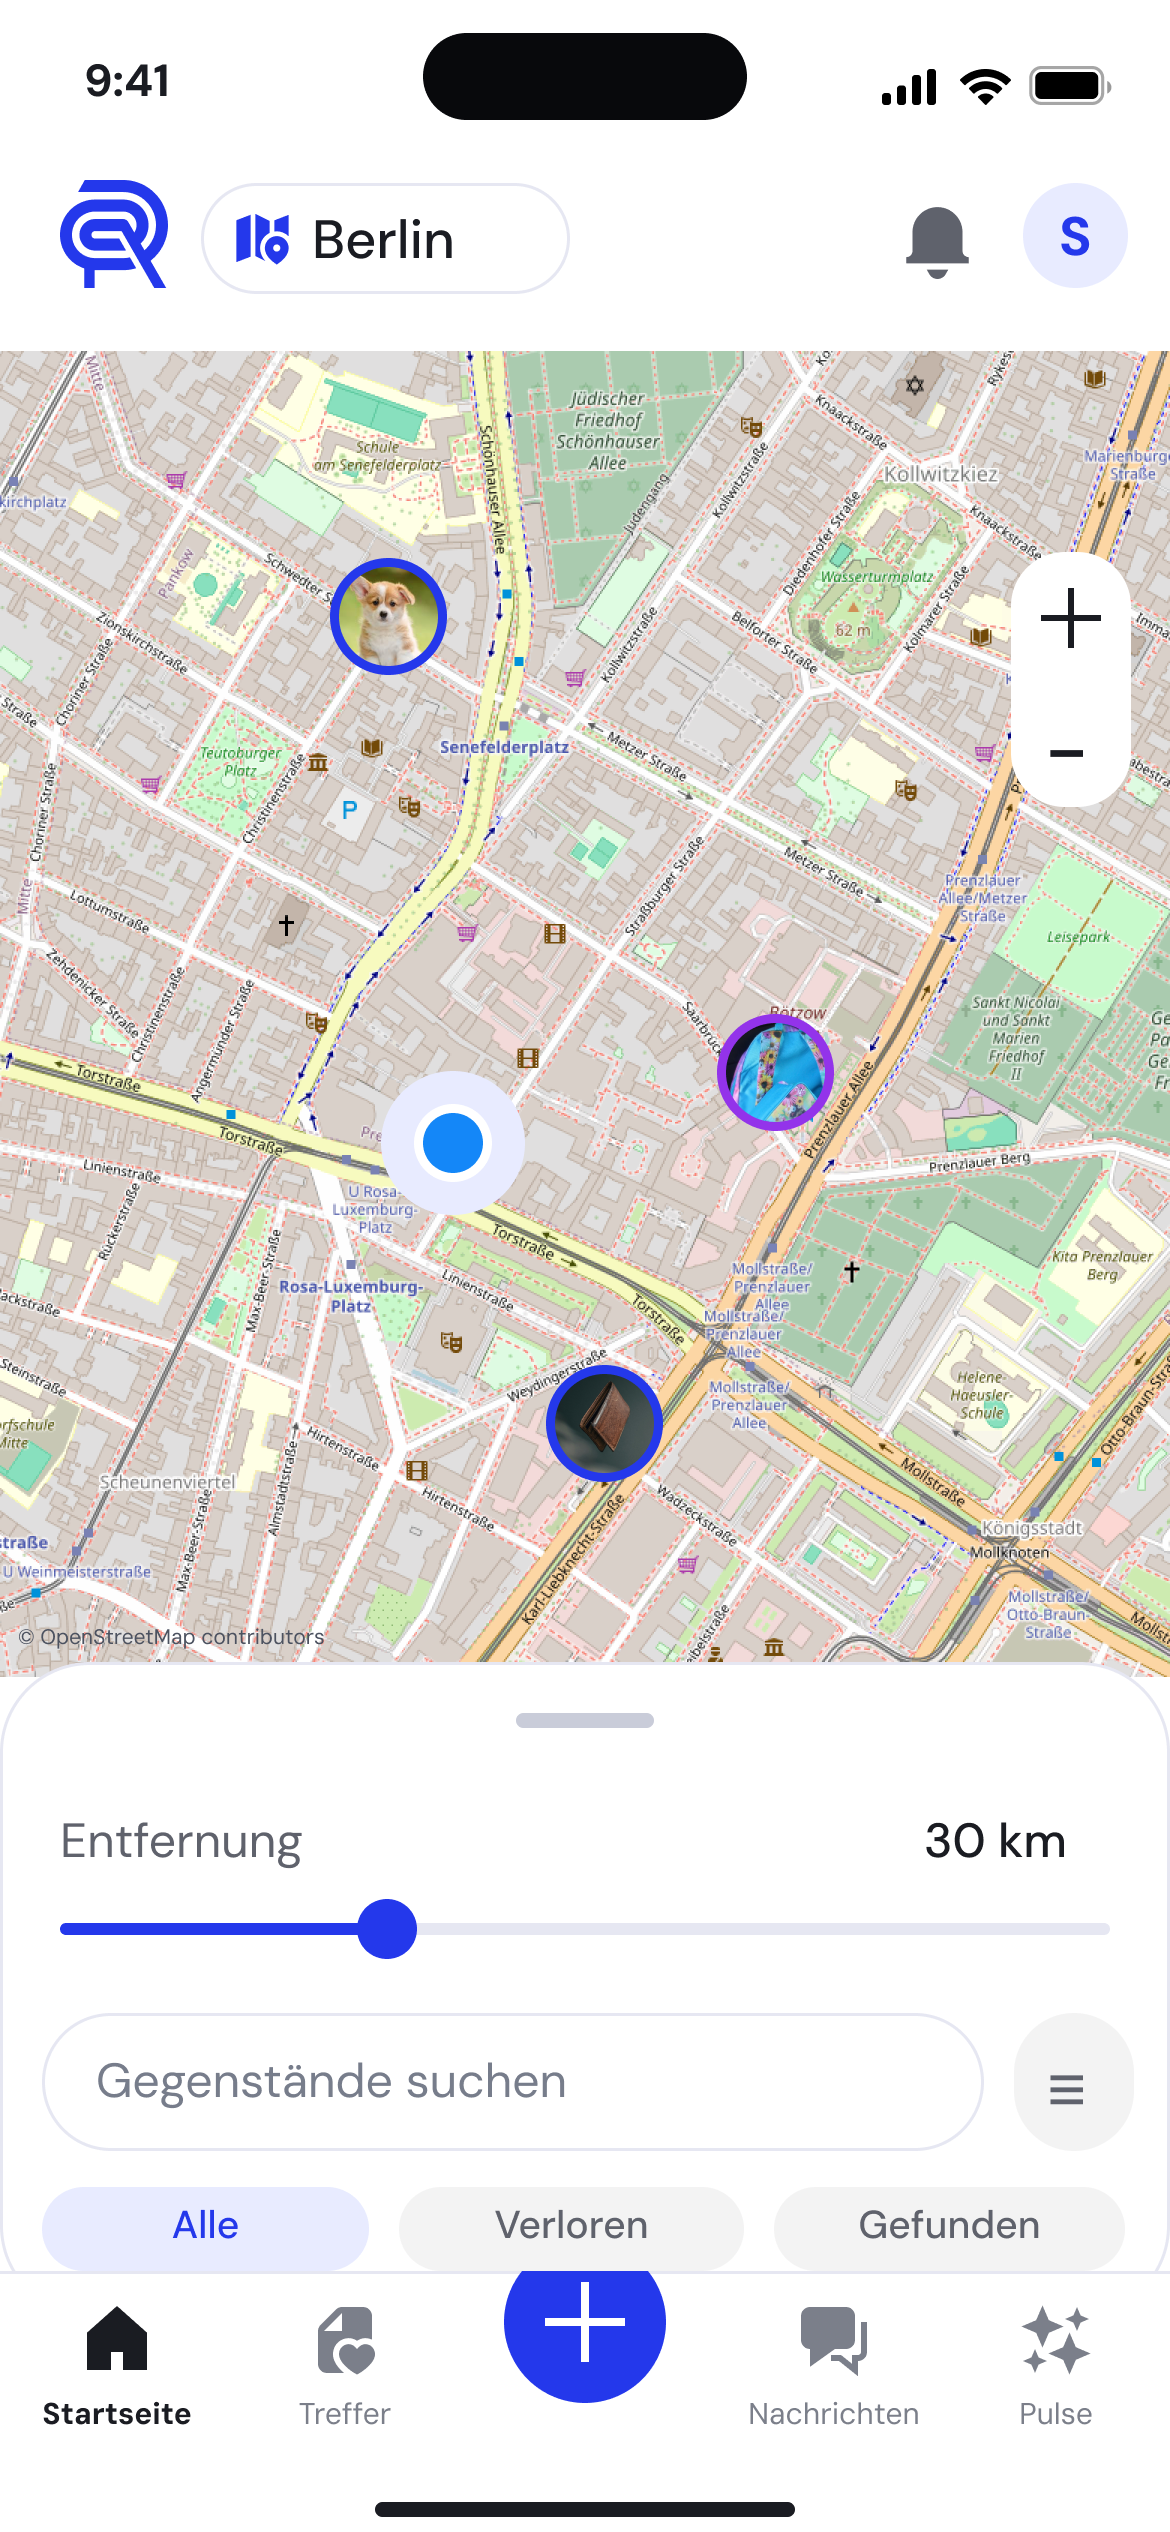
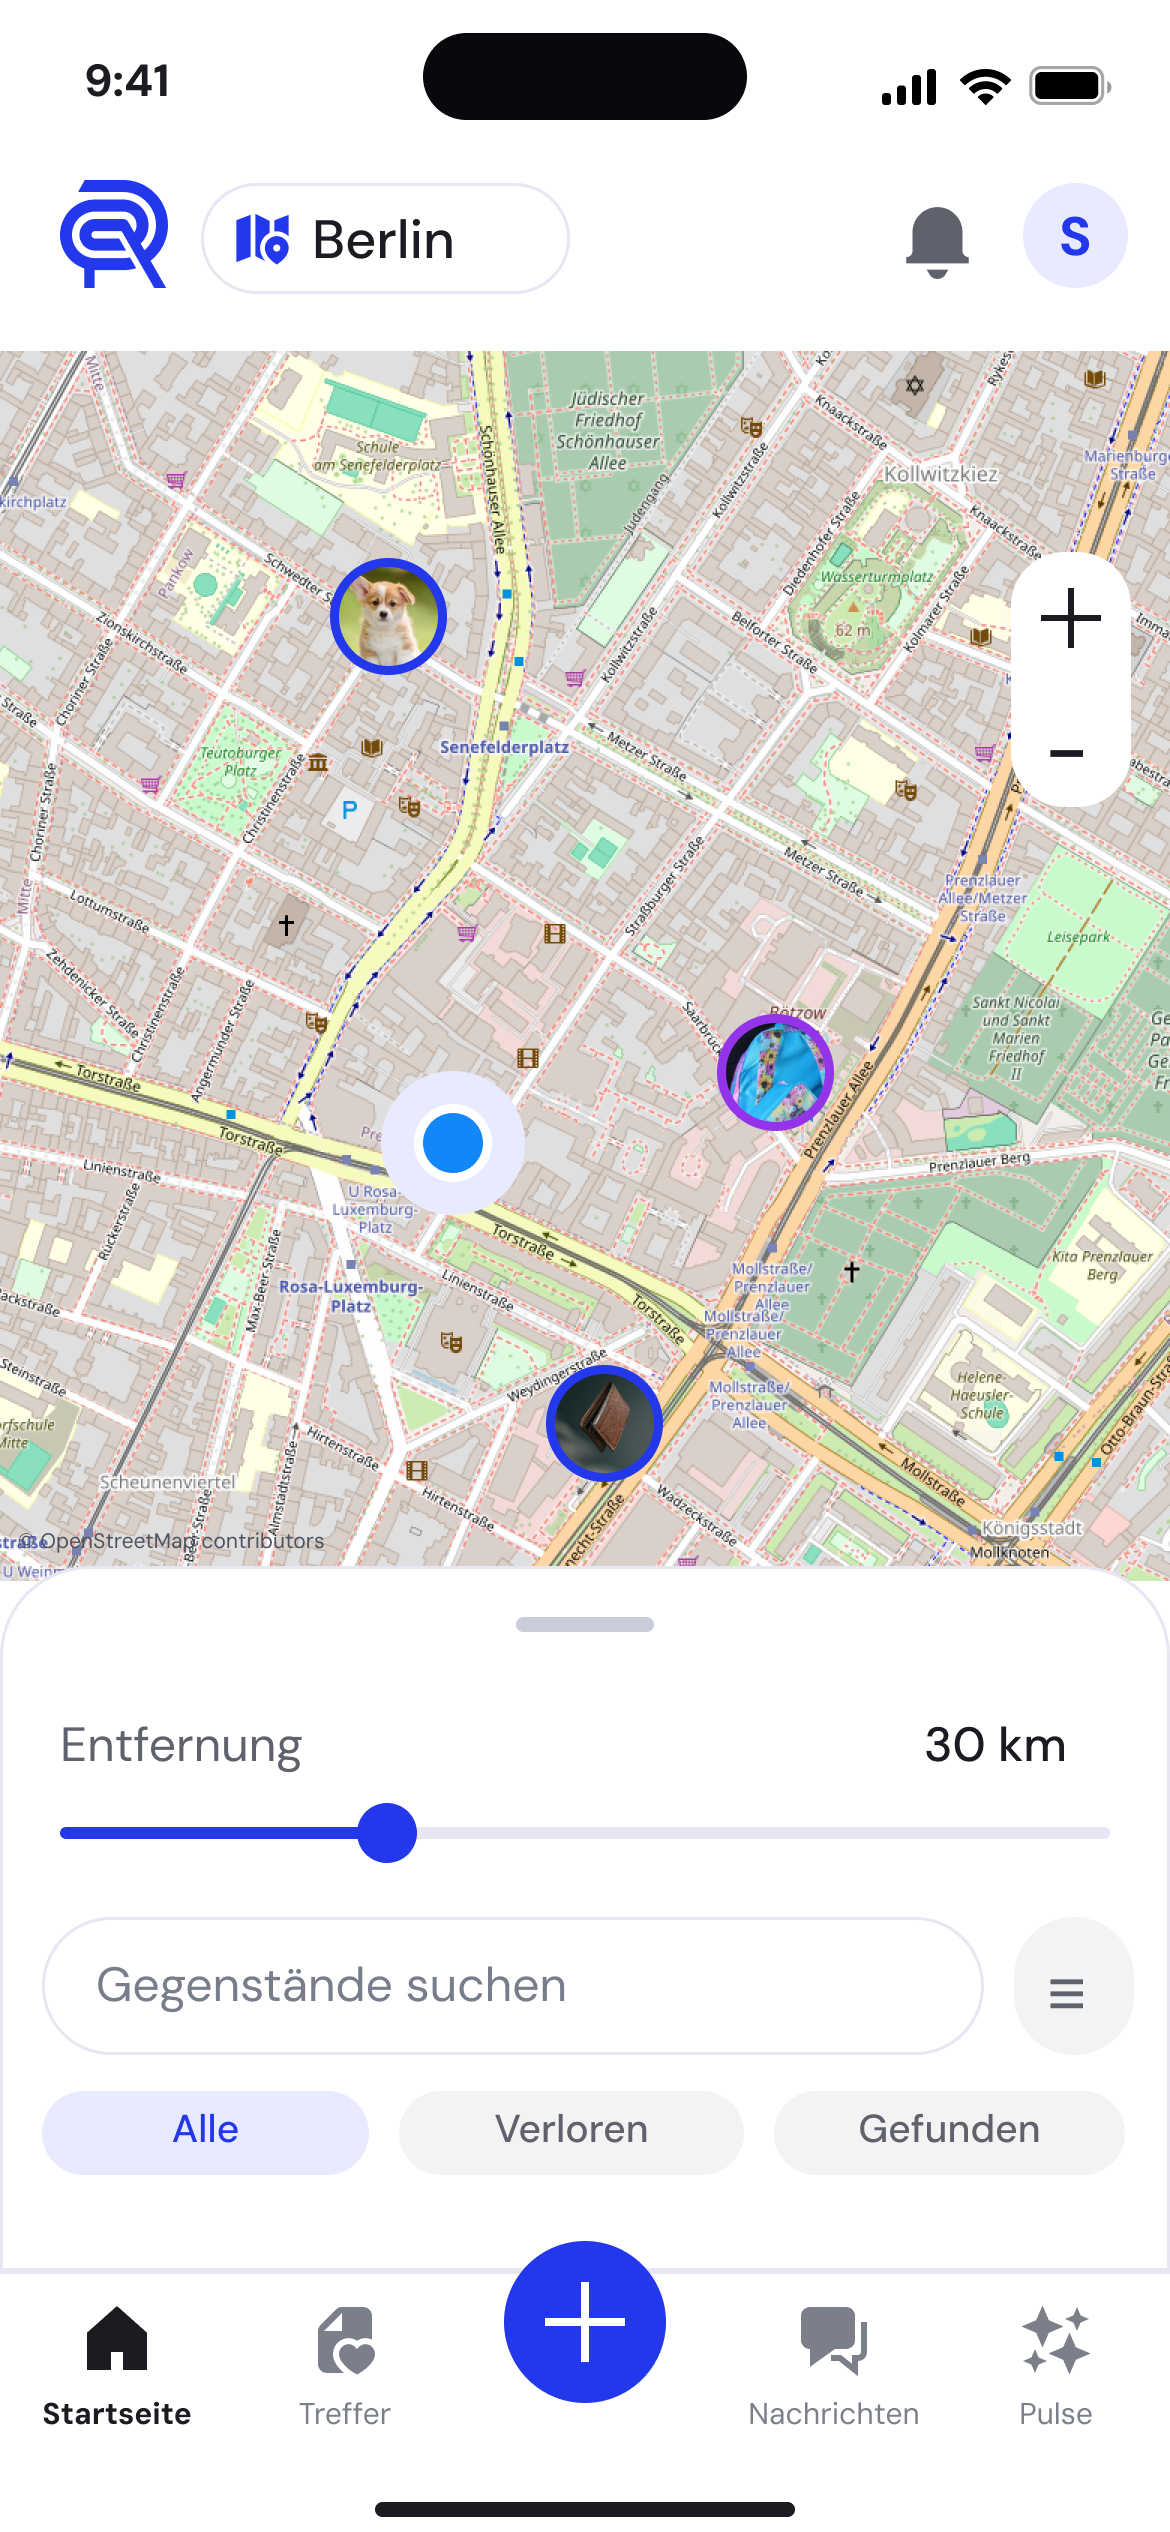
Polish discovery mockup spacing and remove duplicate map caption

diff --git a/components/shared/AppMockup.tsx b/components/shared/AppMockup.tsx
@@ -55,12 +55,6 @@ export function AppMockup({
           />
         </div>
       </div>
-      {screen === 'discover' && (
-        <figcaption className={styles.attribution}>
-          © <a href="https://www.openstreetmap.org/copyright">OpenStreetMap</a>
-          {' '}{locale === 'de' ? 'Mitwirkende' : 'contributors'}
-        </figcaption>
-      )}
     </figure>
   );
 }

diff --git a/components/shared/AppMockup.module.css b/components/shared/AppMockup.module.css
@@ -28,20 +28,6 @@
   height: auto;
 }
 
-.attribution {
-  margin-top: 14px;
-  color: inherit;
-  font-size: 10px;
-  line-height: 1.4;
-  text-align: center;
-  opacity: 0.75;
-}
-
-.attribution a {
-  text-decoration: underline;
-  text-underline-offset: 2px;
-}
-
 .showcase {
   position: relative;
   isolation: isolate;

diff --git a/public/images/app-ui/README.md b/public/images/app-ui/README.md
@@ -17,5 +17,5 @@ screen component itself, without the App Store poster, device frame, or headline
 | ownership | 6669:279 | 6669:70036 |
 | handover | 6669:327 | 6669:70084 |
 
-The discovery map uses OpenStreetMap data. Keep the visible OpenStreetMap
-attribution alongside that mockup when changing its placement.
+The discovery map uses OpenStreetMap data. Its attribution is included inside
+the screen export; do not add a duplicate caption beneath the device.
